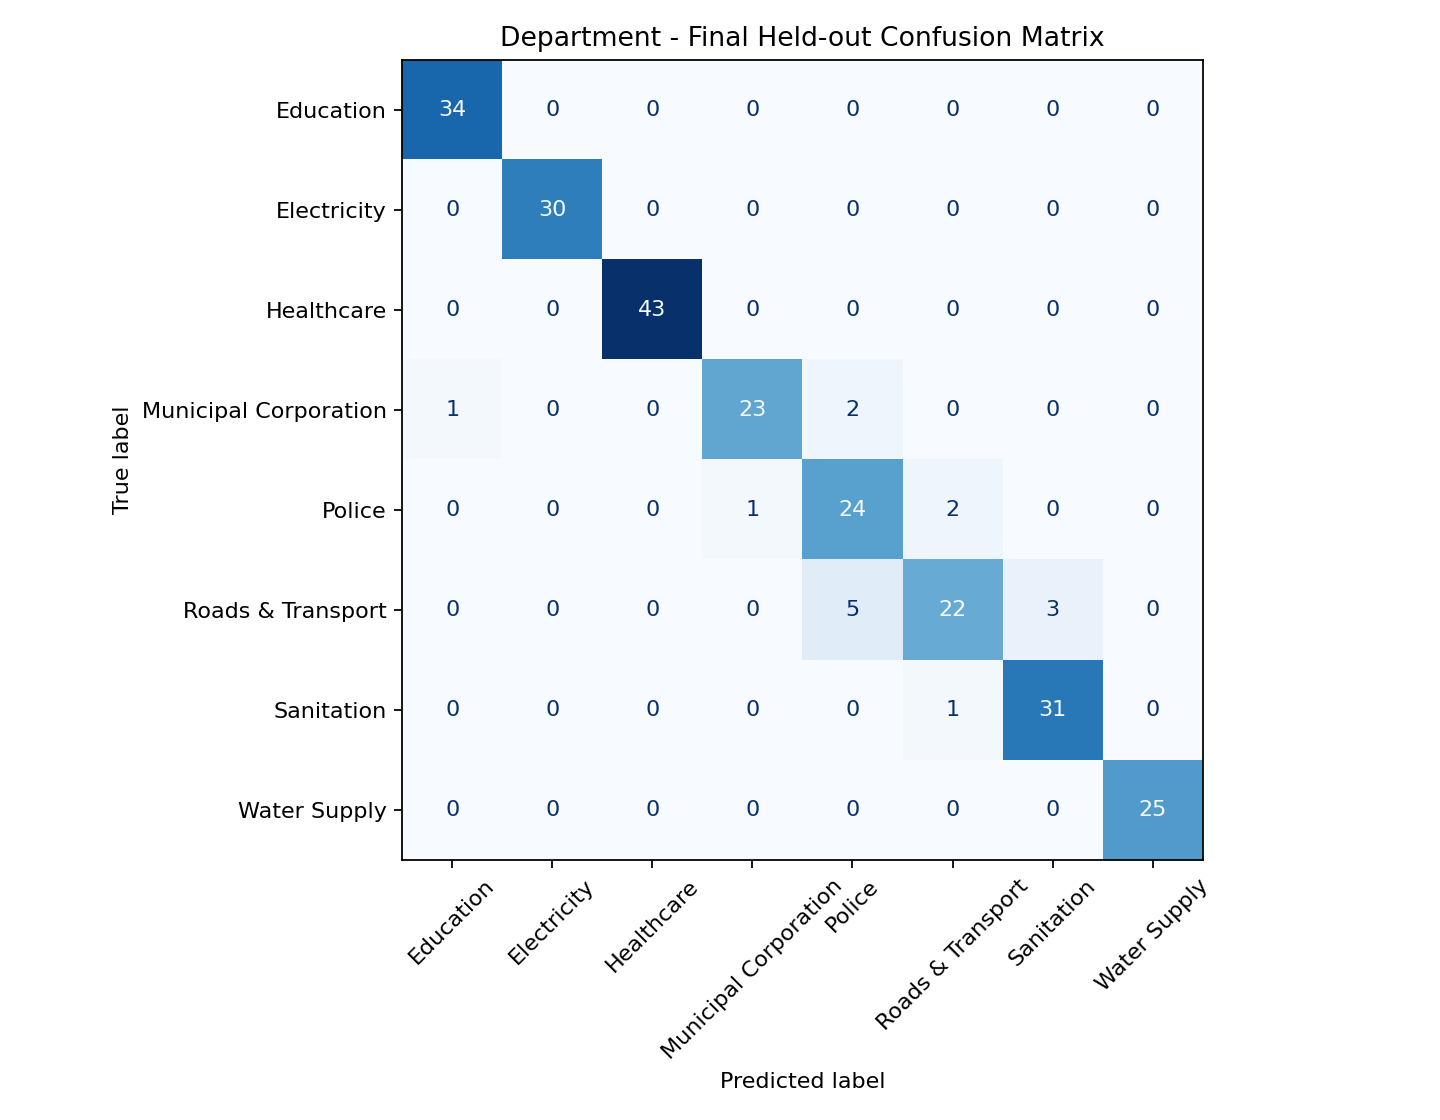
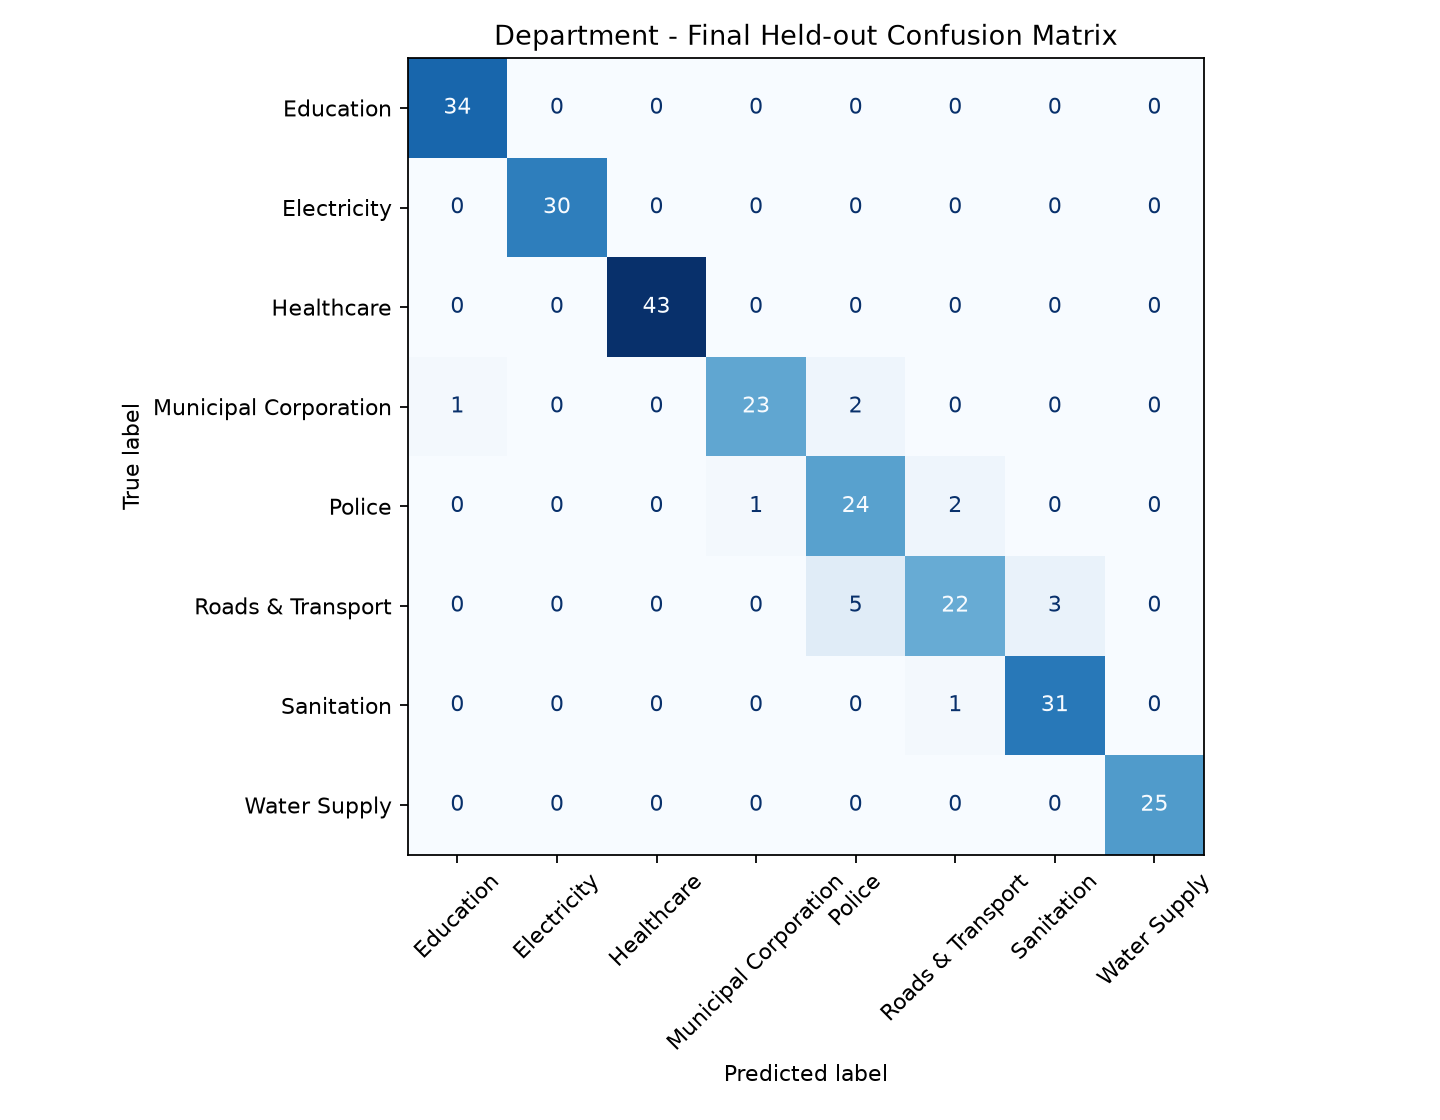
trained ml again for better performance

diff --git a/frontend/department_complaint_details.html b/frontend/department_complaint_details.html
@@ -420,23 +420,6 @@
 
         <hr>
 
-        <section class="audit-section manager-only escalation-control" id="manualEscalationSection">
-            <div class="review-panel__head">
-                <h3><i class="fa-solid fa-arrow-up-right-dots"></i> Escalate Complaint</h3>
-                <span class="review-chip">Department Head</span>
-            </div>
-            <p class="audit-note">Use manual escalation when a case needs management attention before the automatic SLA threshold is reached.</p>
-            <div class="action-entry escalation-entry">
-                <select id="manualEscalationLevel">
-                    <option value="1">Level 1 — Manager Attention</option>
-                    <option value="2" selected>Level 2 — SLA / Department Escalation</option>
-                    <option value="3">Level 3 — Critical / System Escalation</option>
-                </select>
-                <input id="manualEscalationReason" type="text" placeholder="Reason for escalation">
-                <button id="manualEscalationBtn" type="button"><i class="fa-solid fa-arrow-up"></i> Escalate</button>
-            </div>
-            <p id="manualEscalationResult" class="audit-note"></p>
-        </section>
 
         <hr>
 

diff --git a/backend/training/train_ml_models.py b/backend/training/train_ml_models.py
@@ -210,6 +210,62 @@ def _load_priority_frame() -> pd.DataFrame:
     return df.reset_index(drop=True)
 
 
+def _load_priority_external() -> pd.DataFrame:
+    """Load real labeled urgency/severity corpora as bounded training-only data.
+
+    CivicDex urgency and CivicComp annotated severity are normalized to the
+    application's Low/Medium/High labels. The larger annotated corpus is
+    stratified-downsampled to 500 rows so it cannot overwhelm in-domain data.
+    """
+    civicdex = pd.read_csv(DATASET_DIR / 'civicdex_adapted.csv').dropna(
+        subset=['english_gloss', 'urgency']).copy()
+    civicdex['description'] = civicdex['english_gloss'].astype(str).str.replace(
+        r'\s+', ' ', regex=True).str.strip()
+    civicdex['priority'] = civicdex['urgency'].astype(str).str.strip().str.title()
+    civicdex['source'] = 'civicdex'
+    civicdex = civicdex[civicdex['priority'].isin(['Low', 'Medium', 'High'])]
+    civicdex = civicdex[['description', 'priority', 'source']]
+
+    annotated = pd.read_csv(DATASET_DIR / 'annotated_complaints_with_severity.csv').dropna(
+        subset=['text_en', 'severity']).copy()
+    title = annotated['complaint_title'].fillna('').astype(str).str.strip()
+    body = annotated['text_en'].astype(str).str.strip()
+    annotated['description'] = (title + '. ' + body).str.replace(
+        r'\s+', ' ', regex=True).str.strip(' .')
+    annotated['priority'] = annotated['severity'].astype(str).str.strip().str.title()
+    annotated['source'] = 'annotated_severity'
+    annotated = annotated[annotated['priority'].isin(['Low', 'Medium', 'High'])]
+    # Preserve the in-domain class proportions while sampling deterministically.
+    target_counts = _load_priority_frame()['priority'].value_counts(normalize=True)
+    cap = 500
+    annotated = pd.concat([
+        group.sample(n=min(len(group), max(1, round(cap * target_counts.get(label, 0)))),
+                     random_state=RANDOM_STATE)
+        for label, group in annotated.groupby('priority')
+    ], ignore_index=True)
+    annotated = annotated[['description', 'priority', 'source']]
+
+    feedback_path = DATASET_DIR / 'priority_supplement.csv'
+    if feedback_path.exists():
+        feedback = pd.read_csv(feedback_path)
+        if {'description', 'priority', 'source'}.issubset(feedback.columns):
+            feedback = feedback[feedback['source'].astype(str).eq('user_feedback')].copy()
+            feedback['priority'] = feedback['priority'].astype(str).str.strip().str.title()
+            feedback = feedback[feedback['priority'].isin(['Low', 'Medium', 'High'])]
+            feedback = feedback[['description', 'priority']].assign(source='user_feedback')
+        else:
+            feedback = pd.DataFrame(columns=['description', 'priority', 'source'])
+    else:
+        feedback = pd.DataFrame(columns=['description', 'priority', 'source'])
+
+    external = pd.concat([civicdex, annotated, feedback], ignore_index=True)
+    external = external[external['description'].astype(str).str.len() >= 3].copy()
+    external['group'] = external['description'].map(_priority_group_key)
+    # Remove duplicates across external corpora; keep one row per text group.
+    external = external.drop_duplicates('group').reset_index(drop=True)
+    return external
+
+
 def _priority_vectorizer():
     return FeatureUnion([
         ('word_tfidf', TfidfVectorizer(
@@ -253,7 +309,11 @@ def train_priority():
     sys.path.insert(0, str(ROOT / 'backend'))
 
     df = _load_priority_frame()
+    external = _load_priority_external()
     X, y, groups = df['description'].values, df['priority'].values, df['group'].values
+    X_external = external['description'].astype(str).values
+    y_external = external['priority'].astype(str).values
+    external_groups = external['group'].astype(str).values
 
     cv = StratifiedGroupKFold(n_splits=5, shuffle=True, random_state=RANDOM_STATE)
     folds = list(cv.split(X, y, groups))
@@ -262,11 +322,14 @@ def train_priority():
         pred = np.empty(len(df), dtype=object)
         for tr, te in folds:
             vec = _priority_vectorizer()
-            A = _priority_features(vec, X[tr], fit=True)
+            # Keep external duplicates of this validation fold out of training.
+            test_groups = set(groups[te])
+            keep_external = np.array([g not in test_groups for g in external_groups])
+            fit_x = np.concatenate([X[tr], X_external[keep_external]])
+            fit_y = np.concatenate([y[tr], y_external[keep_external]])
+            A = _priority_features(vec, fit_x, fit=True)
             B = _priority_features(vec, X[te])
-            if name == 'ComplementNB':  # NB needs non-negative features (urgency feats already are)
-                pass
-            pred[te] = _priority_candidates()[name].fit(A, y[tr]).predict(B)
+            pred[te] = _priority_candidates()[name].fit(A, fit_y).predict(B)
         rows.append({
             'model': name,
             'cv_accuracy': float(accuracy_score(y, pred)),
@@ -281,16 +344,22 @@ def train_priority():
     # Untouched grouped hold-out for the reported headline numbers.
     tr, te = next(GroupShuffleSplit(n_splits=1, test_size=0.20, random_state=RANDOM_STATE).split(X, y, groups))
     vec = _priority_vectorizer()
-    A = _priority_features(vec, X[tr], fit=True)
+    holdout_groups = set(groups[te])
+    keep_external = np.array([g not in holdout_groups for g in external_groups])
+    holdout_fit_x = np.concatenate([X[tr], X_external[keep_external]])
+    holdout_fit_y = np.concatenate([y[tr], y_external[keep_external]])
+    A = _priority_features(vec, holdout_fit_x, fit=True)
     B = _priority_features(vec, X[te])
-    held = _priority_candidates()[winner].fit(A, y[tr])
+    held = _priority_candidates()[winner].fit(A, holdout_fit_y)
     pred = held.predict(B)
     classes = list(held.classes_)
 
     # Deployed model: refit on all data.
     vectorizer = _priority_vectorizer()
-    Xall = _priority_features(vectorizer, X, fit=True)
-    model = _priority_candidates()[winner].fit(Xall, y)
+    final_fit_x = np.concatenate([X, X_external])
+    final_fit_y = np.concatenate([y, y_external])
+    Xall = _priority_features(vectorizer, final_fit_x, fit=True)
+    model = _priority_candidates()[winner].fit(Xall, final_fit_y)
 
     from app.services.urgency_features import FEATURE_VERSION, NAMES
     metrics = {
@@ -306,6 +375,9 @@ def train_priority():
         'classification_report': classification_report(y[te], pred, output_dict=True, zero_division=0),
         'classes': classes,
         'clean_rows': int(len(df)),
+        'external_training_rows': int(len(external)),
+        'external_training_sources': {k: int(v) for k, v in external['source'].value_counts().items()},
+        'external_training_distribution': {k: int(v) for k, v in external['priority'].value_counts().items()},
         'unique_complaint_groups': int(df['group'].nunique()),
         'train_rows': int(len(tr)),
         'test_rows': int(len(te)),
@@ -315,8 +387,8 @@ def train_priority():
         'class_distribution': {k: int(v) for k, v in df['priority'].value_counts().items()},
         'candidate_models': comparison.to_dict(orient='records'),
         'probability_support': bool(hasattr(model, 'predict_proba')),
-        'source_columns_used': ['description', 'priority'],
-        'note': 'Features = word(1-3)+char(3-5) TF-IDF followed by hand-built urgency features (urgency_features.py).',
+        'source_columns_used': ['priority_dataset.description', 'priority_dataset.priority', 'civicdex_adapted.english_gloss', 'civicdex_adapted.urgency', 'annotated_complaints_with_severity.complaint_title', 'annotated_complaints_with_severity.text_en', 'annotated_complaints_with_severity.severity'],
+        'note': 'External CivicDex and annotated severity rows are training-only, label-mapped to Low/Medium/High, deduplicated, bounded, and excluded from matching held-out groups. Features = word(1-3)+char(3-5) TF-IDF plus urgency features.',
     }
     fig, ax = plt.subplots(figsize=(8, 6))
     ConfusionMatrixDisplay.from_predictions(

diff --git a/backend/app/services/priority_engine.py b/backend/app/services/priority_engine.py
@@ -221,7 +221,7 @@ def compute_dynamic_priority(ctx: dict) -> dict:
         else:
             age_hours = max(float(ctx.get("age_hours") or 0), 0.0)
             if age_hours >= 48:
-                add("Long open without comparable history", min(4.0, age_hours / 120.0), "no text-matched repair-time target is available yet")
+                add("Long open without comparable history", min(10.0, age_hours / 20.0), "no text-matched repair-time target is available yet")
         if not approved_extension_active:
             stale = float(ctx.get("since_update_hours") or 0)
             if stale > 120:
@@ -240,26 +240,24 @@ def compute_dynamic_priority(ctx: dict) -> dict:
     score = max(0.0, min(100.0, score))
 
     score_band = band(score)
-    level = score_band
+    level = base
     label_adjustments = []
-    # Critical is reserved for explicit emergencies.
-    if level == "Critical" and not (critical or emergency or sig["danger"] >= 0.6):
-        level = "High"
-        label_adjustments.append("score_capped_without_explicit_emergency")
     if critical or emergency:
         level = "Critical"
         label_adjustments.append("explicit_critical_or_verified_emergency")
-    if ctx.get("high_floor") and ORDER.index(level) < ORDER.index("High"):
+    elif ctx.get("high_floor") and ORDER.index(level) < ORDER.index("High"):
         level = "High"
         label_adjustments.append("high_risk_safety_floor")
-    # Never fall below the ML base class. The numeric score remains the raw
-    # situational score; expose its band and any label adjustment separately.
-    if ORDER.index(level) < ORDER.index(base):
-        level = base
+    elif ORDER.index(score_band) > ORDER.index(level):
+        # Cluster counts and elapsed time remain visible in the score and factors;
+        # they do not override the learned class for routine complaints.
+        label_adjustments.append("situational_score_for_officer_review")
+    elif ORDER.index(score_band) < ORDER.index(level):
         label_adjustments.append("ml_base_priority_floor")
 
     top = sorted((f for f in factors if f["points"] > 0), key=lambda f: -f["points"])[:3]
-    reason = f"{level} priority: ML base {base}; raw score {score:.1f} ({score_band} band)" + (
+    review_text = "; situational score shown for officer review" if "situational_score_for_officer_review" in label_adjustments else ""
+    reason = f"{level} priority: ML base {base}{review_text}; raw score {score:.1f} ({score_band} band)" + (
         "; " + ", ".join(f"{f['factor'].lower()} (+{f['points']:g})" for f in top) if top else "")
     return {
         "priority": level,
@@ -284,8 +282,10 @@ def _load_state(complaint) -> dict:
 
 def initial_state(priority_result: dict) -> str:
     """Serialise the ML result so later recomputation keeps the model's view."""
+    from app.services.urgency_features import FEATURE_VERSION
     return json.dumps({
         "base": {
+            "model_feature_version": FEATURE_VERSION,
             "priority": priority_result.get("base_priority") or priority_result.get("priority"),
             "probs": priority_result.get("probabilities") or {},
             "critical": bool(priority_result.get("critical_override")),
@@ -344,11 +344,24 @@ def refresh_priorities(db, complaints, commit=True) -> int:
         cluster = c.incident_cluster_id or c.complaint_id
         state = _load_state(c)
         base_state = state.get("base") or {}
-        base_priority = base_state.get("priority") or c.base_priority or (
-            c.priority if c.priority in ORDER else "Medium")
         created = _aware(c.created_at) or now
         updated = last_update.get(c.complaint_id) or created
         text = " ".join(filter(None, [c.translated_title or c.title, c.translated_text or c.description]))
+        from app.services.urgency_features import FEATURE_VERSION
+        if base_state.get("model_feature_version") != FEATURE_VERSION:
+            from app.services.ai_service import predict_priority_details
+            refreshed = predict_priority_details(text, c.predicted_department)
+            base_state = {
+                "model_feature_version": FEATURE_VERSION,
+                "priority": refreshed.get("base_priority") or refreshed.get("priority"),
+                "probs": refreshed.get("probabilities") or {},
+                "critical": bool(refreshed.get("critical_override")),
+                "high_floor": bool(refreshed.get("high_risk_reasons")),
+            }
+            state["base"] = base_state
+            c.priority_confidence = refreshed.get("confidence")
+        base_priority = base_state.get("priority") or c.base_priority or (
+            c.priority if c.priority in ORDER else "Medium")
         resolution_sla = sla_info(c, db)
         result = compute_dynamic_priority({
             "base_priority": base_priority,

diff --git a/backend/app/services/urgency_features.py b/backend/app/services/urgency_features.py
@@ -7,15 +7,16 @@ bump ``FEATURE_VERSION`` and retrain with ``python backend/training/train_priori
 import re
 import numpy as np
 
-FEATURE_VERSION = 1
+FEATURE_VERSION = 5
 GROUPS = {
  'safety':   r"danger|dangerous|hazard|unsafe|risk|injur|accident|collision|fatal|death|died|electrocut|shock|spark|fire|smoke|burn|explos|gas leak|collapse|cave[- ]?in|sinkhole|open manhole|exposed|live wire|toxic|poison|snake|assault|violence|attack|threat|weapon|knife|harass|stalk|abus|rape|molest|kidnap|robbery|theft|stolen|extort|bully|ragging",
- 'health':   r"disease|dengue|malaria|cholera|typhoid|epidemic|outbreak|infection|contaminat|polluted|unsafe water|sewage|stench|rats|mosquito|ambulance|emergency|patient|surgery|medicine|doctor|hospital|clinic|vaccine|oxygen|unhygienic|unclean|dirty water",
+ 'health':   r"disease|dengue|malaria|cholera|typhoid|epidemic|outbreak|infection|falling sick|falling ill|serious illness|sick|illness|contaminat|polluted|unsafe water|sewage|stench|rats|mosquito|ambulance|emergency|patient|surgery|medicine|doctor|hospital|clinic|vaccine|oxygen|unhygienic|unclean|dirty water",
  'vulnerable': r"child|children|kid|student|pupil|school|infant|baby|elderly|senior|old age|disab|wheelchair|blind|pregnan|women|woman|girl|patient",
  'outage':   r"no (?:drinking )?water|no electricity|no power|power cut|outage|blackout|not coming|not receiving|not supplied|without (?:water|power|electricity)|supply (?:stopped|disrupted|cut|failure)|shortage|dry taps?|water main|burst|flood|waterlog|overflow|blocked|clogged|stagnant",
  'urgent':   r"urgent|emergency|immediately|asap|at once|critical|serious|severe|severely|life[- ]threatening|right now|please help|dire|extremely|very bad|unbearable|worst",
+ 'short_duration': r"(?:for|about|around|since)\s+(?:(?:about|around|only|just)\s+)?(?:a\s+few|few|an?|one|two|three|four|five|six|seven|eight|nine|ten|1|2|3|4|5|6|7|8|9|10|\d{1,2})\s*(?:minutes?|mins?|hours?|hrs?)\b",
  'duration': r"for (?:\w+ ){0,2}(?:days|weeks|months|years)|since (?:\w+ ){0,2}(?:days|weeks|months|years|last|yesterday|morning)|several (?:days|weeks|months)|\d+ (?:days|weeks|months|years)|two (?:days|weeks|months)|again and again|repeated|repeatedly|multiple (?:times|complaints|occasions)|despite|no response|not (?:been )?(?:acted|resolved|addressed|responded)|still not|ignored|no action|every (?:day|night|evening|morning)|daily",
- 'scale':    r"entire|whole|all (?:the )?(?:residents|houses|areas?|streets?|colony|locality)|many|several|hundreds|multiple|everyone|residents|locality|neighbou?rhood|colony|main road|highway|market|junction|busy|crowd|public",
+ 'scale':    r"entire|whole|all (?:the )?(?:residents|houses|areas?|streets?|colony|locality)|many|several|hundreds|multiple|everyone|main road|highway|market|junction|busy|crowd|public|(?:across|throughout) (?:the )?(?:locality|neighbou?rhood|colony|village|ward)",
  'mitigate': r"\b(?:small|minor|slight|slightly|little|tiny|cosmetic|occasionally|sometimes|once|just|only|mild|not urgent|no rush|whenever|bit)\b|certificate|application|reimburse|refund|bill|tax|fee|fees|renewal|permit|licence|license|document|id card|ration card|aadhaar|name change|update(?:d)? my|noise|barking|graffiti|parking|parked|rude|staff behaviou?r|delay(?:ed)?|suggestion|request(?:ing)? (?:for|to)|kindly|replace|replacement|paint|bench|signboard",
  'access':   r"road|bridge|signal|traffic|junction|crossing|footpath|pavement|sidewalk|manhole|drain|pothole|streetlight|street light|pitch black|dark",
 }

diff --git a/backend/training/test_priority_engine.py b/backend/training/test_priority_engine.py
@@ -36,10 +36,14 @@ ok &= check("routine garbage complaint is not public-health hazard",
             fresh["score"] < 50 and fresh["factors"] == [])
 more = run(affected_count=12, report_count=6)
 ok &= check("more affected people raises score", more["score"] > fresh["score"] + 8)
-ok &= check("12 affected + 6 reports pushes Medium -> High", more["priority"] == "High")
+ok &= check("12 affected + 6 reports raise the situational score without overriding ML Medium",
+            more["priority"] == "Medium" and more["score_band"] == "High"
+            and "situational_score_for_officer_review" in more["label_adjustments"])
 aging = [run(age_hours=h)["score"] for h in (10, 50, 80, 120, 200)]
 ok &= check("score never decreases as time passes", aging == sorted(aging))
-ok &= check("long SLA breach raises Medium -> High", run(age_hours=200, since_update_hours=150)["priority"] == "High")
+long_open = run(age_hours=200, since_update_hours=150)
+ok &= check("long SLA breach raises situational score without overriding ML Medium",
+            long_open["score"] > fresh["score"] and long_open["priority"] == "Medium")
 ok &= check("reopen raises score", run(reopen_count=2)["score"] > fresh["score"] + 10)
 ok &= check("worsening wording raises score",
             run(text="The pothole is getting worse and wider every day")["score"] > fresh["score"])
@@ -135,8 +139,11 @@ ok &= check("DB: raw score band is exposed separately from adjusted label",
 c.created_at = now - timedelta(days=10); db.commit()
 before = c.priority_score; pe.refresh_priorities(db, [c])
 ok &= check("DB: ageing 10 days raises score further", c.priority_score > before)
-ok &= check("DB: actual priority change is logged as an event",
-            db.query(ComplaintEvent).filter_by(complaint_id=c.complaint_id, event_type="priority_change").count() >= 1)
+# An ML base-label change must still be persisted and logged.
+c.priority_factors = '{"base":{"priority":"High","probs":{"High":0.9,"Medium":0.1},"critical":false,"high_floor":false},"score":null,"score_band":null,"label_adjustments":[],"factors":[]}'
+c.priority = "Medium"; db.commit(); pe.refresh_priorities(db, [c])
+ok &= check("DB: ML priority change is logged as an event",
+            c.priority == "High" and db.query(ComplaintEvent).filter_by(complaint_id=c.complaint_id, event_type="priority_change").count() >= 1)
 db.add(ComplaintEvent(complaint_id=c.complaint_id, event_type="citizen_reopen", title="r", actor="x")); db.commit()
 before = c.priority_score; pe.refresh_priorities(db, [c])
 ok &= check("DB: citizen reopen raises score", c.priority_score > before)
@@ -144,7 +151,7 @@ c.status = "Resolved"; frozen = (c.priority, c.priority_score); db.commit()
 pe.refresh_priorities(db, [c])
 ok &= check("DB: resolved complaints are frozen", (c.priority, c.priority_score) == frozen)
 bd = pe.priority_breakdown(c)
-ok &= check("DB: breakdown exposes factors", bool(bd["factors"]) and bd["ml_base_priority"] == "Medium")
+ok &= check("DB: breakdown exposes factors", bool(bd["factors"]) and bd["ml_base_priority"] == "High")
 ok &= check("DB: explanation score stays synchronized", "raw score" in (c.priority_reason or ""))
 if not ok:
     raise SystemExit("priority engine tests failed")

diff --git a/dataset/README_ML_DATA.md b/dataset/README_ML_DATA.md
@@ -4,7 +4,7 @@
 Original CivicFlow eight-department labelled complaint dataset. It remains the production source for department-routing training because its labels match the exact departments implemented by the application.
 
 ## `annotated_complaints_with_severity.csv`
-CivicComp multilingual civic complaint data provided for this project. CivicFlow uses its complaint title, English text, primary civic category and severity label for severity training. Target-derived fields (`severity_score`, matched severity keywords) are excluded from model features to reduce leakage.
+CivicComp multilingual civic complaint data provided for this project. Priority training uses English complaint title/text and the annotated severity label (mapped to Low/Medium/High). A deterministic, class-stratified sample capped at 500 rows is used as training-only augmentation to limit source imbalance. Target-derived scores/keywords and category fields are excluded.
 
 Source page supplied during development:
 `https://www.kaggle.com/datasets/shyamtripathi373/civiccomp-hien-hindienglish-civic-complaints`
@@ -12,7 +12,12 @@ Source page supplied during development:
 The source page indicates CC BY-SA 4.0. Preserve source attribution and verify the current dataset license before redistributing outside the project/repository.
 
 ## `civicdex_adapted.csv`
-Retained as a secondary multilingual/urgency research dataset. It is not blindly merged into the production classifiers because its department taxonomy and labelling policy differ from CivicFlow's canonical department labels.
+Used as training-only priority augmentation through `english_gloss` and `urgency` (mapped to Low/Medium/High). All 660 labeled rows are eligible; duplicates of held-out in-domain complaint groups are excluded in each fold. Its category/department fields are not used for priority.
 
 ## Important
 `train.csv` and `test.csv` from CivicComp were not additionally merged into the full annotated CSV because those records originate from the same dataset and doing so can duplicate samples / cause leakage.
+
+
+Priority evaluation remains on the grouped held-out split of `priority_dataset.csv`; CivicDex and annotated rows are used only for training and never as evaluation examples. Synthetic priority examples are not used by the training pipeline.
+
+Only the two manually labeled user_feedback examples in priority_supplement.csv are included; curated_synthetic rows are excluded.
